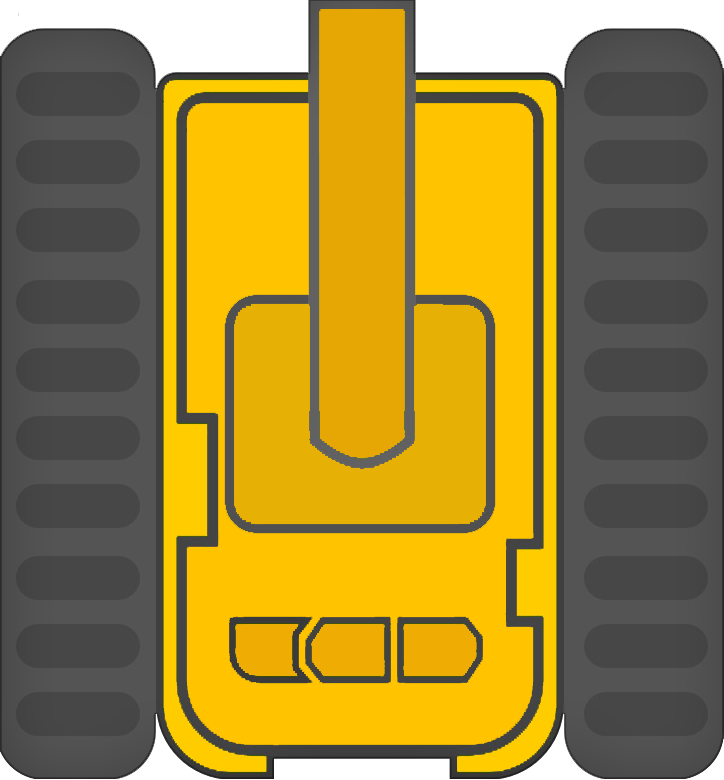
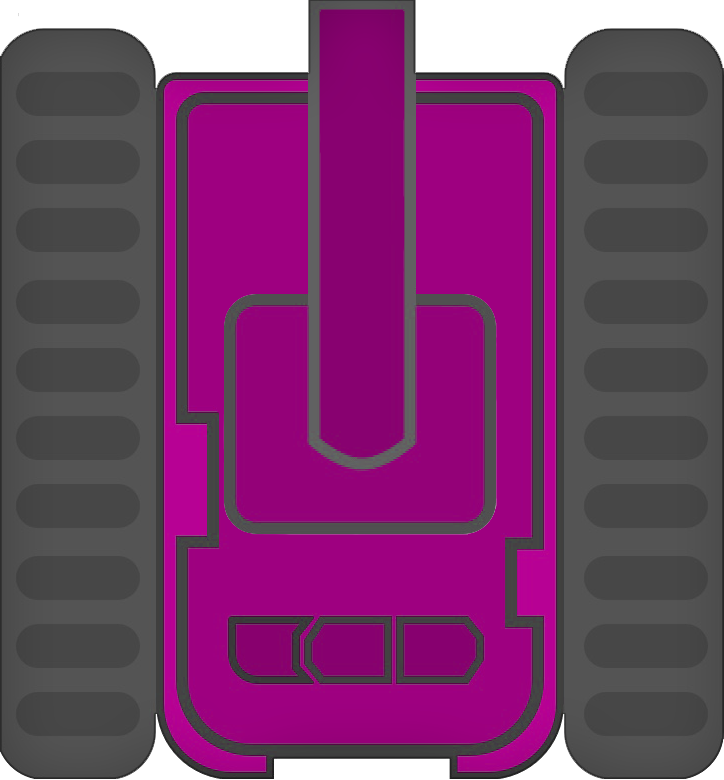
Starting to implement tower rotation..

diff --git a/TankyV2/src/tools/EImages.java b/TankyV2/src/tools/EImages.java
@@ -25,8 +25,18 @@ public enum EImages {
     TANK4("assets/tanks/tank4.png"),
     TANK5("assets/tanks/tank5.png"),
     ENEMY1("assets/tanks/tankE1.png"),
-    ENEMY2("assets/tanks/tankE2.png");
+    ENEMY2("assets/tanks/tankE2.png"),
     //GameAssets
+    BODY1("assets/tanks/inGame/tank1.png"),
+    BODY2("assets/tanks/inGame/tank2.png"),
+    BODY3("assets/tanks/inGame/tank3.png"),
+    BODY4("assets/tanks/inGame/tank4.png"),
+    BODY5("assets/tanks/inGame/tank5.png"),
+    TOWER1("assets/tanks/towers/tank1.png"),
+    TOWER2("assets/tanks/towers/tank2.png"),
+    TOWER3("assets/tanks/towers/tank3.png"),
+    TOWER4("assets/tanks/towers/tank4.png"),
+    TOWER5("assets/tanks/towers/tank5.png");
 
     private BufferedImage image;
 
@@ -43,10 +53,24 @@ public enum EImages {
         return this.image;
     }
 
-    public static EImages getNum(int num) {
-        if (num < 5 || num > 11) {
-            num = 5;
+    public static EImages getNum(int num, boolean game) {
+        if (!game) {
+            if (num < 5 || num > 11) {
+                num = 5;
+            }
+            return EImages.values()[num + 1];
+        } else {
+            if (num < 12 || num > 16) {
+                num = 12;
+            }
+            return EImages.values()[num + 1];
         }
-        return EImages.values()[num + 1];
+    }
+
+    public static EImages getTower(int num) {
+        if (num < 12 || num > 16) {
+            num = 12;
+        }
+        return EImages.values()[num + 6];
     }
 }

diff --git a/TankyV2/src/game/GamePanel.java b/TankyV2/src/game/GamePanel.java
@@ -3,6 +3,7 @@ package game;
 import entities.Player;
 import tools.Canvas;
 import tools.KeyHandler;
+import tools.MouseHandler;
 
 import javax.swing.JPanel;
 import java.awt.Color;
@@ -19,6 +20,7 @@ public class GamePanel extends JPanel implements Runnable {
 
     private Thread thread;
     private final Player player;
+    private final Tower tower;
 
     private static final int WIDTH = 1600;
     private static final int HEIGHT = 900;
@@ -31,11 +33,14 @@ public class GamePanel extends JPanel implements Runnable {
         this.tankN = canvas.getTankN();
 
         KeyHandler handler = new KeyHandler();
+        MouseHandler mouseHandler = new MouseHandler();
 
         this.player = new Player(this, handler);
+        this.tower = new Tower(this, handler, mouseHandler);
         super.setLayout(null);
 
         super.addKeyListener(handler);
+        super.addMouseMotionListener(mouseHandler);
         this.startTread();
 
         this.lastFrame = System.nanoTime();
@@ -72,6 +77,7 @@ public class GamePanel extends JPanel implements Runnable {
         Graphics2D g2D = (Graphics2D)g;
 
         this.player.draw(g2D);
+        this.tower.draw(g2D);
     }
 
     public int getTankN() {

diff --git a/TankyV2/src/game/Tower.java b/TankyV2/src/game/Tower.java
@@ -1,0 +1,31 @@
+package game;
+
+import entities.Player;
+import tools.EImages;
+import tools.Image;
+import tools.KeyHandler;
+import tools.MouseHandler;
+
+import java.awt.Graphics2D;
+
+/**
+ * 3/15/2022 - 9:17 AM
+ *
+ * @author simon
+ */
+public class Tower extends Player {
+
+    private MouseHandler m;
+
+    public Tower(GamePanel p, KeyHandler h, MouseHandler m) {
+        super(p, h);
+        this.m = m;
+    }
+
+    public void draw(Graphics2D g2D) {
+        super.update();
+
+        Image image = new Image(EImages.getTower(super.getPanel().getTankN() + 7).getImage());
+        image.paint(g2D, super.getX() - 6, super.getY() - 7, 87, 104, (int)this.m.getAngleM(), 40);
+    }
+}

diff --git a/TankyV2/src/tools/MouseHandler.java b/TankyV2/src/tools/MouseHandler.java
@@ -1,0 +1,28 @@
+package tools;
+
+import java.awt.event.MouseEvent;
+import java.awt.event.MouseMotionListener;
+
+/**
+ * 3/15/2022 - 9:17 AM
+ *
+ * @author simon
+ */
+public class MouseHandler implements MouseMotionListener {
+
+    private double angleM;
+
+    @Override
+    public void mouseDragged(MouseEvent e) {
+
+    }
+
+    @Override
+    public void mouseMoved(MouseEvent e) {
+        this.angleM = Math.toDegrees(Math.atan2(e.getY(), e.getX())) % 360;
+    }
+
+    public double getAngleM() {
+        return this.angleM;
+    }
+}

diff --git a/TankyV2/src/entities/Player.java b/TankyV2/src/entities/Player.java
@@ -74,7 +74,19 @@ public class Player {
     }
 
     public void draw(Graphics2D g2D) {
-        Image image = new Image(EImages.getNum(this.panel.getTankN()).getImage());
+        Image image = new Image(EImages.getNum(this.panel.getTankN() + 7, true).getImage());
         image.paint(g2D, this.x, this.y, 75, 90, this.angle, 40);
+    }
+
+    public int getX() {
+        return this.x;
+    }
+
+    public int getY() {
+        return this.y;
+    }
+
+    public GamePanel getPanel() {
+        return this.panel;
     }
 }

diff --git a/TankyV2/src/game/SelectionPanel.java b/TankyV2/src/game/SelectionPanel.java
@@ -60,7 +60,7 @@ public class SelectionPanel extends JPanel {
         Image image = new Image(EImages.BCG.getImage());
         image.paint(g2D, WIDTH / 2 - 310 / 2, 210, 310, 350, 0);
         //Tanky
-        image = new Image(EImages.getNum(this.num).getImage());
+        image = new Image(EImages.getNum(this.num, false).getImage());
         image.paint(g2D, WIDTH / 2 - 210 / 2, 260, 210, 250, 0);
     }
 

diff --git a/TankyV2/src/game/MenuPanel.java b/TankyV2/src/game/MenuPanel.java
@@ -62,7 +62,7 @@ public class MenuPanel extends JPanel {
         image = new Image(EImages.BCG.getImage());
         image.paint(g2D, 325, 300, 310, 350, 0);
         //Tanky
-        image = new Image(EImages.getNum(this.num).getImage());
+        image = new Image(EImages.getNum(this.num, false).getImage());
         image.paint(g2D, 375, 350, 210, 250, 0);
     }
 

diff --git a/TankyV2/src/tools/Image.java b/TankyV2/src/tools/Image.java
@@ -30,7 +30,6 @@ public class Image {
 
         AffineTransform at = new AffineTransform();
         at.rotate(Math.toRadians(angle), (width + off) / 2, (height + off) / 2);
-        at.translate(1, 1);
         gd.transform(at);
         gd.drawImage(this.image, off / 2, off / 2, width, height, null);
         g2D.drawImage(im, x, y, null);
